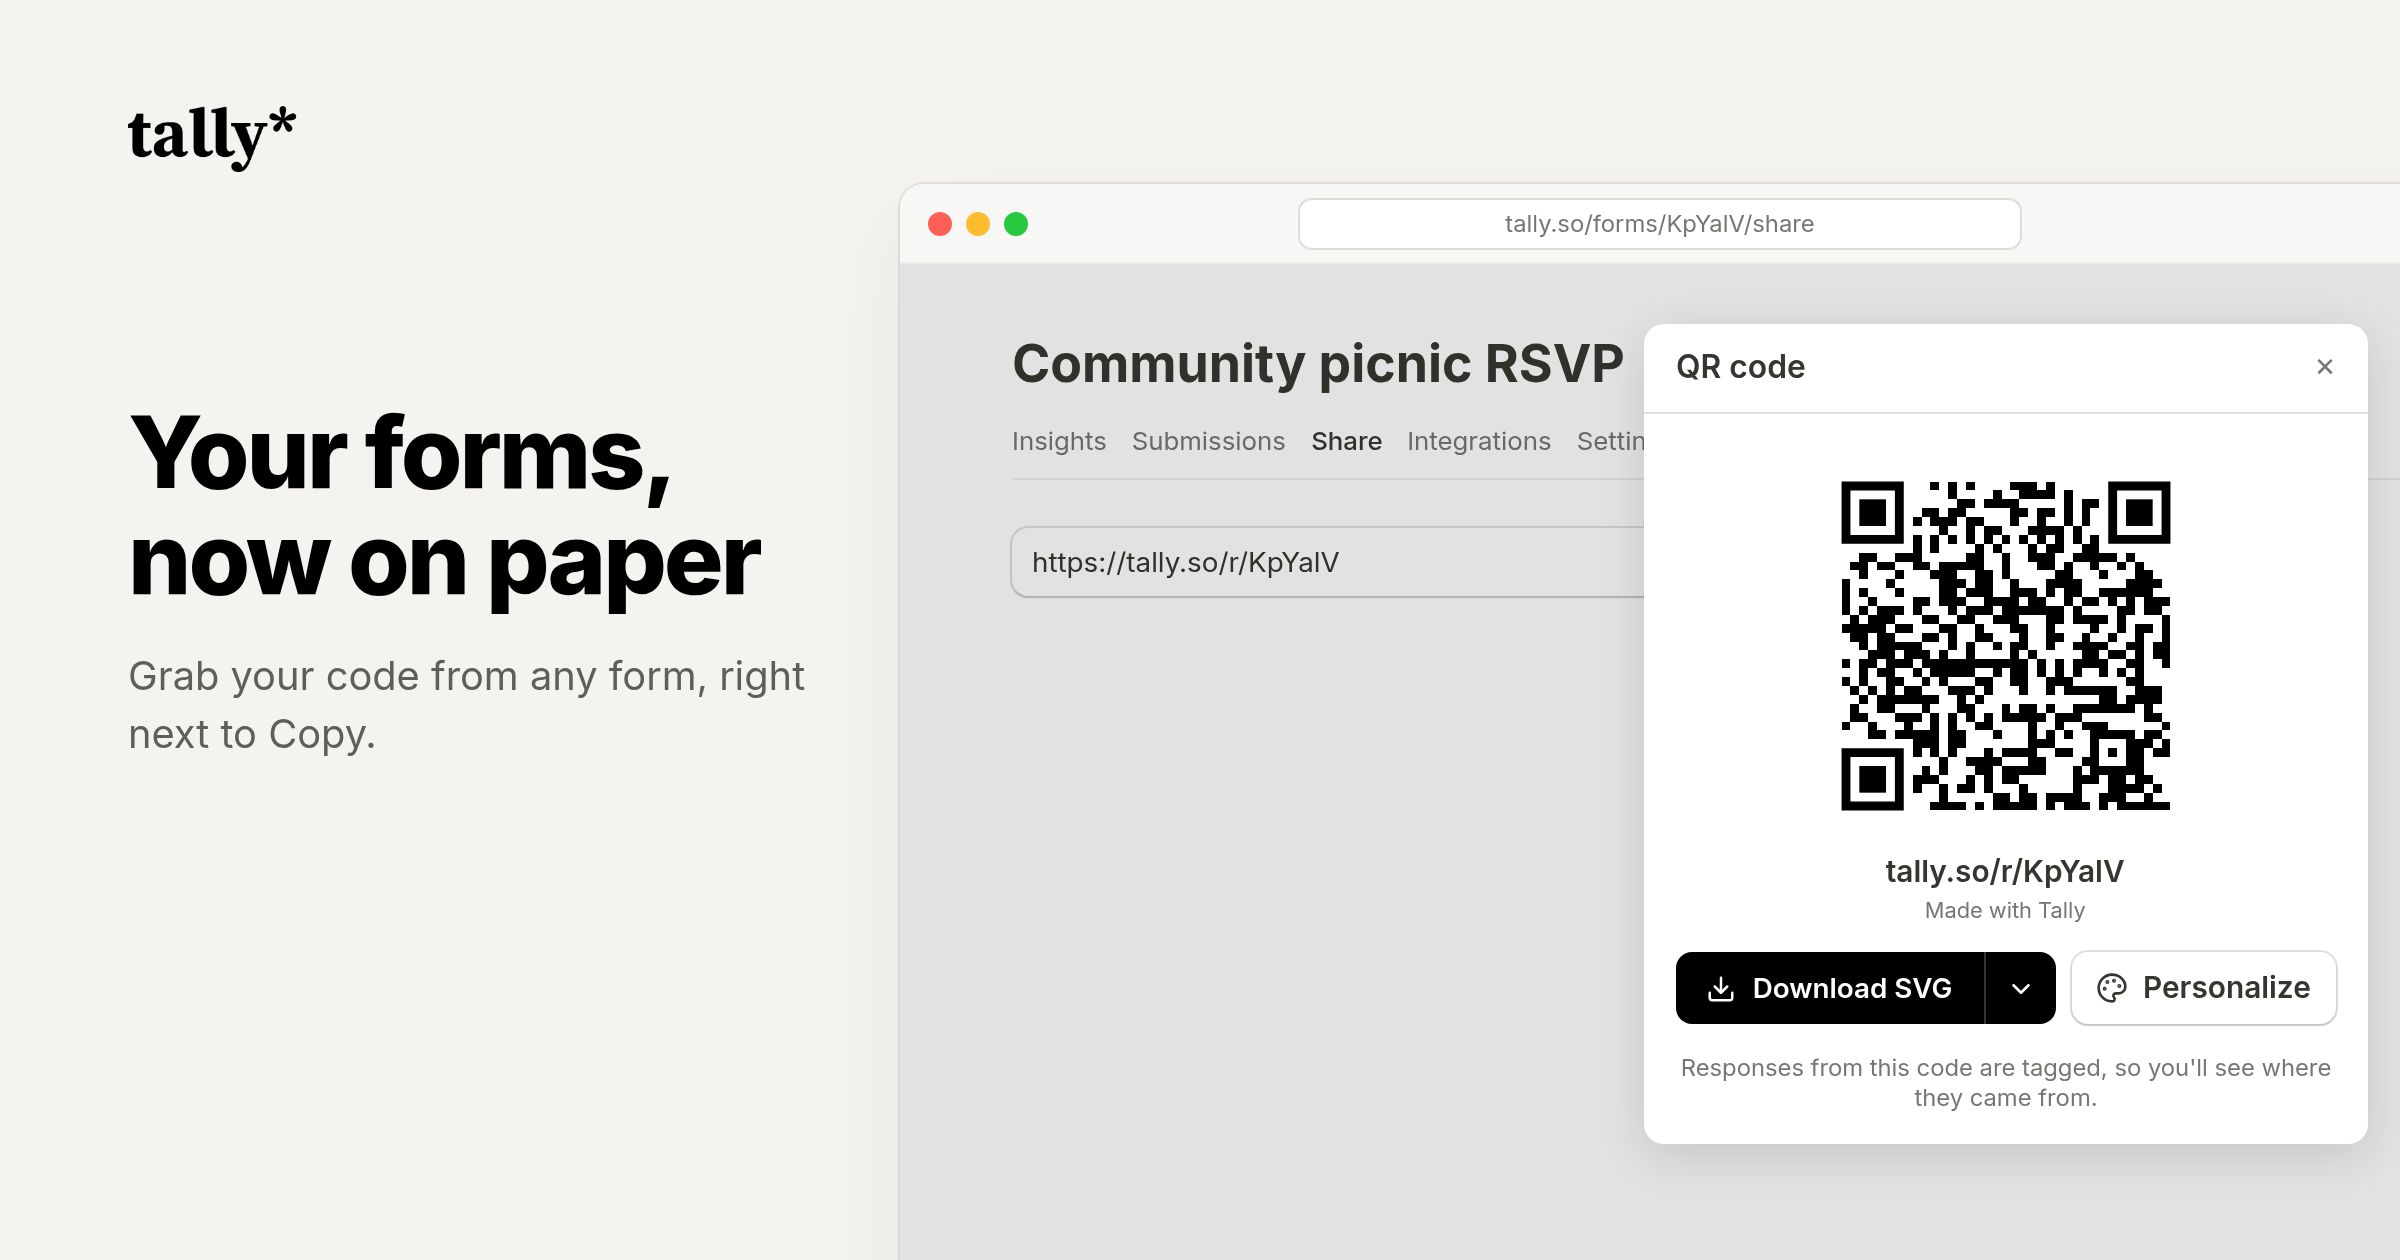
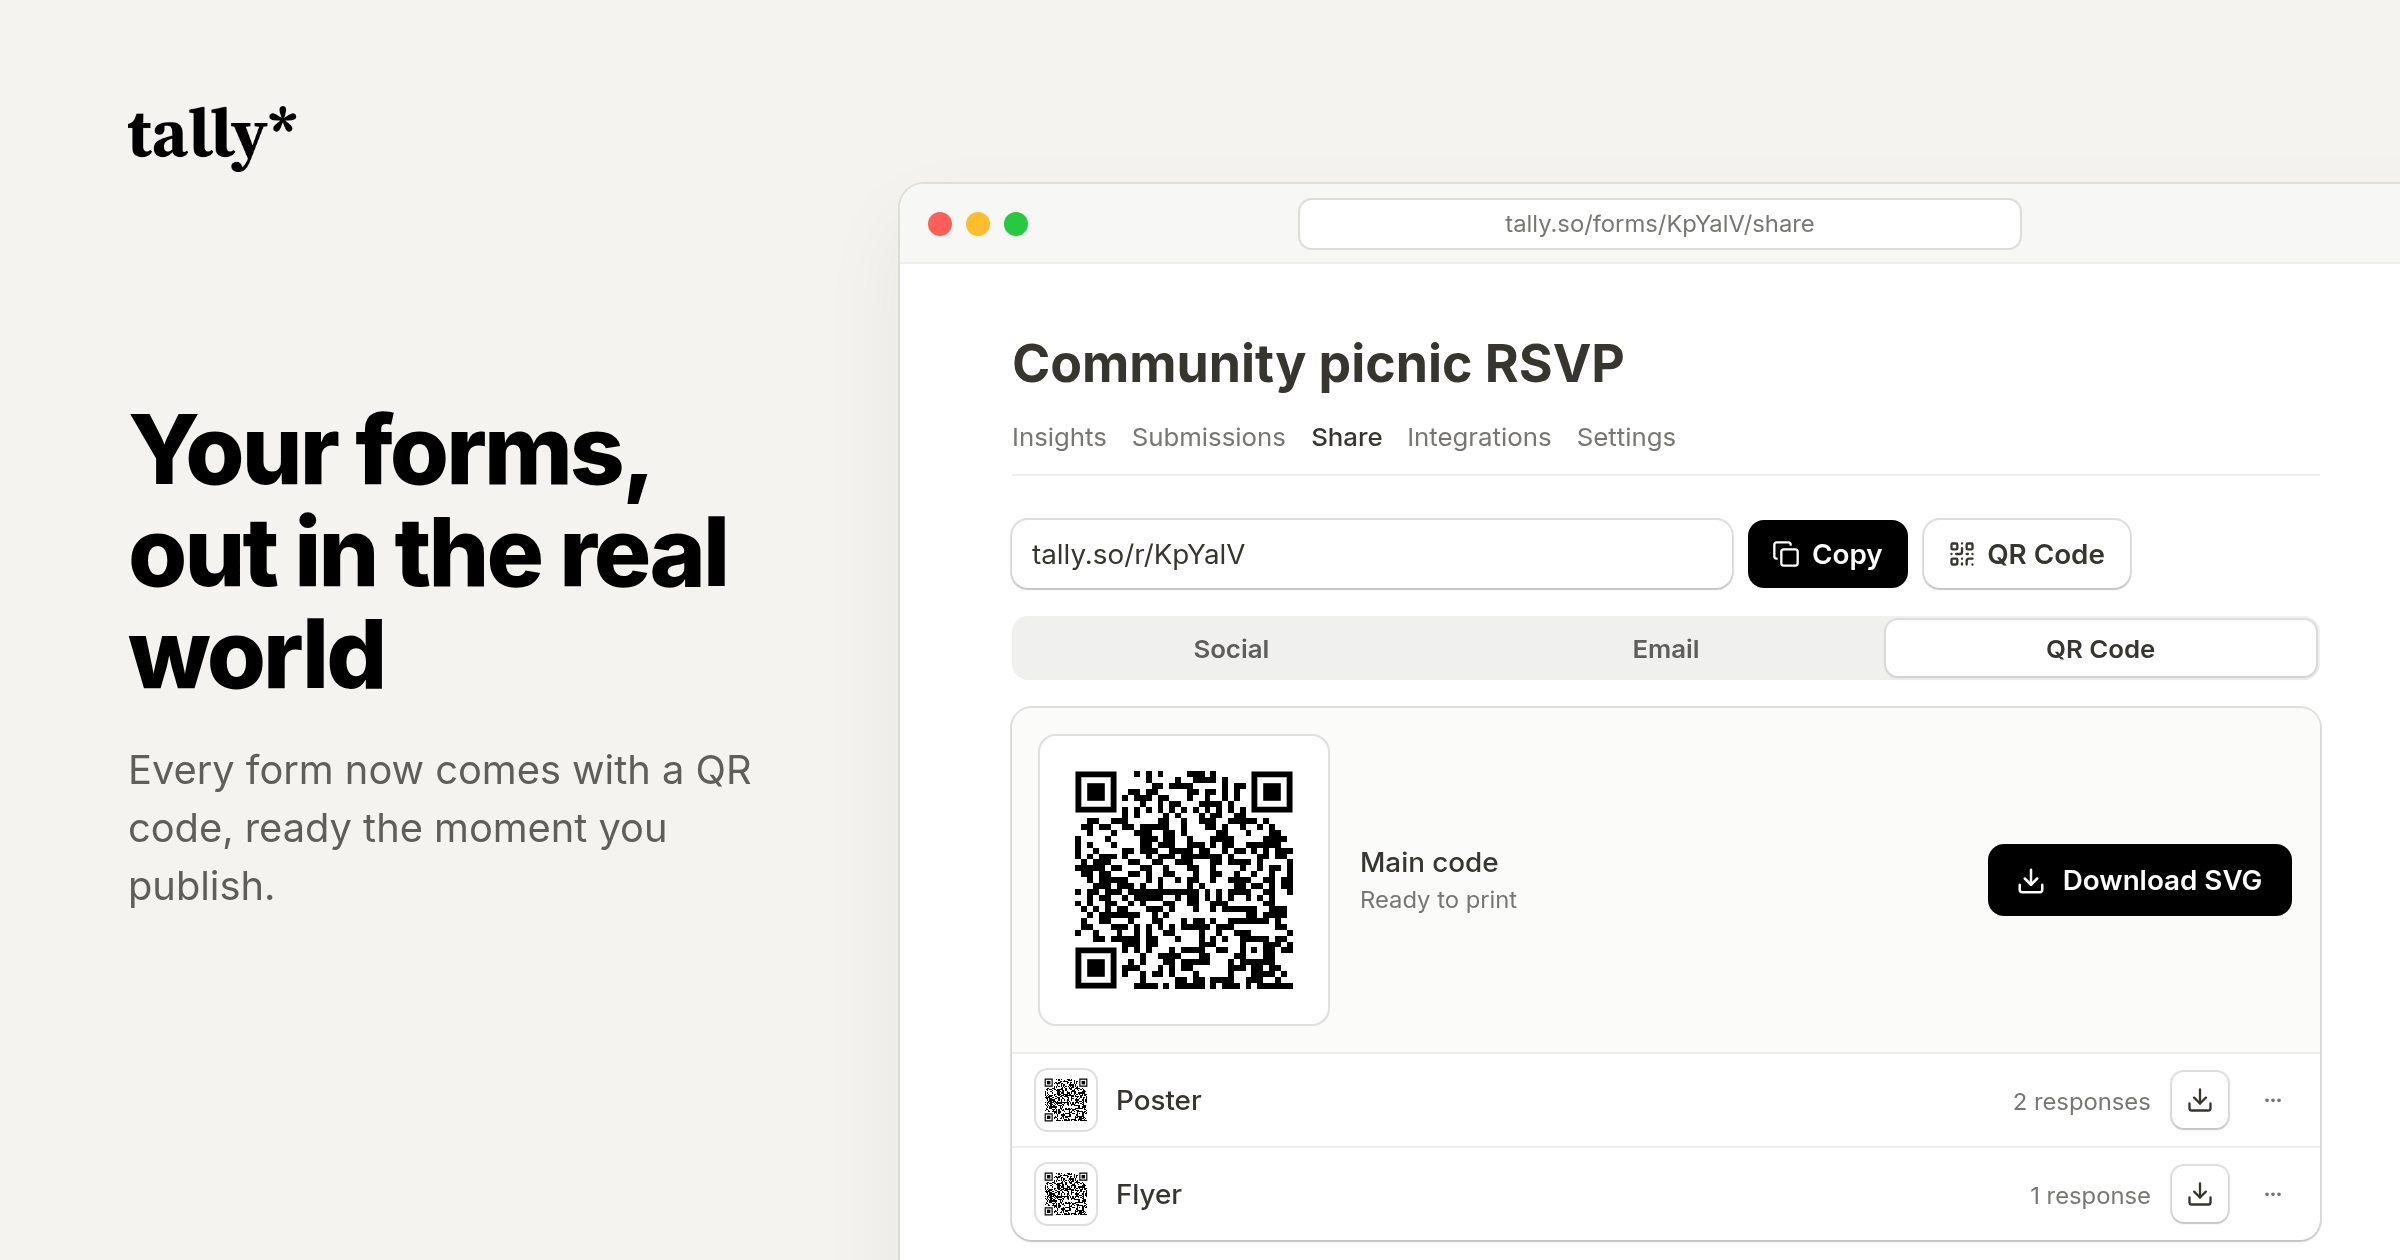
Changelog post: Your forms, out in the real world
- New post title, body and bullets on the visuals page, kept in one object
- Changelog image now shows the Share tab with the QR Code tab open on the main code
- Re-exported the 2400x1260 image used for link previews; og title updated

diff --git a/src/Visuals.tsx b/src/Visuals.tsx
@@ -1,6 +1,6 @@
 import { useRef, useState, type ReactNode } from 'react'
 import { toPng } from 'html-to-image'
-import { Download, ChevronDown, Check, Copy, Palette } from 'lucide-react'
+import { Download, Check, Copy } from 'lucide-react'
 import { CoverArt, PINK, Qr, QrBox, VISUAL_URL, rect, wobble } from './coverArt'
 import { TallyMark } from './chrome'
 import { GuideCard, useGuide } from './guide'
@@ -116,33 +116,52 @@ function Wordmark() {
 }
 
 /** The new QR panel, as it looks in the product. */
-function QrPanelMock({ url }: { url: string }) {
+/** The Share tab with the QR Code tab open on the main code, as in the prototype. */
+function ShareTabMock({ url }: { url: string }) {
+  const Row = ({ name, n }: { name: string; n: string }) => (
+    <div className="sm-row">
+      <span className="sm-thumb"><QrBox size={26} url={url} label="" plain /></span>
+      <span className="sm-name">{name}</span><span className="sm-n">{n}</span>
+      <span className="sm-icon"><Download aria-hidden /></span><span className="sm-more">···</span>
+    </div>
+  )
   return (
-    <div className="pm">
-      <div className="pm-head"><b>QR code</b><span className="pm-x">✕</span></div>
-      <div className="pm-body">
-        <div className="pm-art">
-          <QrBox size={200} url={url} label="QR code" plain />
-          <b>tally.so/r/KpYalV</b>
-          <span>Made with Tally</span>
+    <div className="pg" aria-hidden>
+      <b className="pg-title">Community picnic RSVP</b>
+      <div className="pg-tabs"><span>Insights</span><span>Submissions</span><span className="on">Share</span><span>Integrations</span><span>Settings</span></div>
+      <div className="pg-link">
+        <span className="pg-input">tally.so/r/KpYalV</span>
+        <span className="pg-copy"><Copy aria-hidden />Copy</span>
+        <span className="pg-btn"><QrIcon />QR Code</span>
+      </div>
+      <div className="sm-seg"><span>Social</span><span>Email</span><span className="on">QR Code</span></div>
+      <div className="sm-list">
+        <div className="sm-row is-main">
+          <span className="sm-big"><QrBox size={132} url={url} label="QR code" plain /></span>
+          <span className="sm-main-text"><span className="sm-name">Main code</span><span className="sm-n">Ready to print</span></span>
+          <span className="sm-dl"><Download aria-hidden />Download SVG</span>
         </div>
-        <div className="pm-actions">
-          <div className="mock-split"><span><Download aria-hidden />Download SVG</span><span className="caret"><ChevronDown aria-hidden /></span></div>
-          <div className="pm-btn"><Palette aria-hidden />Personalize</div>
-        </div>
-        <span className="pm-note">Responses from this code are tagged, so you'll see where they came from.</span>
+        <Row name="Poster" n="2 responses" />
+        <Row name="Flyer" n="1 response" />
       </div>
     </div>
   )
 }
+
+const QrIcon = () => (
+  <svg viewBox="0 0 24 24" width="14" height="14" fill="none" stroke="currentColor" strokeWidth="2" strokeLinecap="round" strokeLinejoin="round" aria-hidden>
+    <rect width="5" height="5" x="3" y="3" rx="1" /><rect width="5" height="5" x="16" y="3" rx="1" /><rect width="5" height="5" x="3" y="16" rx="1" />
+    <path d="M21 16h-3a2 2 0 0 0-2 2v3M21 21v.01M12 7v3a2 2 0 0 1-2 2H7M3 12h.01M12 3h.01M12 16v.01M16 12h1M21 12v.01M12 21v-1" />
+  </svg>
+)
 
 function Changelog() {
   return (
     <div className="art changelog">
       <div className="cl-wm"><Wordmark /></div>
       <div className="cl-copy">
-        <h1>Your forms,<br />now on paper</h1>
-        <p>Grab your code from any form, right next to Copy.</p>
+        <h1>Your forms, out in the real world</h1>
+        <p>Every form now comes with a QR code, ready the moment you publish.</p>
       </div>
       <div className="browser">
         <div className="browser-bar">
@@ -150,17 +169,24 @@ function Changelog() {
           <span className="address">tally.so/forms/KpYalV/share</span>
         </div>
         <div className="browser-body">
-          <div className="pg" aria-hidden>
-            <b className="pg-title">Community picnic RSVP</b>
-            <div className="pg-tabs"><span>Insights</span><span>Submissions</span><span className="on">Share</span><span>Integrations</span><span>Settings</span></div>
-            <div className="pg-link"><span className="pg-input">https://tally.so/r/KpYalV</span><span className="pg-copy"><Copy aria-hidden />Copy</span><span className="pg-qr" /></div>
-          </div>
-          <div className="mock-dim" aria-hidden />
-          <QrPanelMock url={VISUAL_URL('qr-changelog')} />
+          <ShareTabMock url={VISUAL_URL('qr-changelog')} />
         </div>
       </div>
     </div>
   )
+}
+
+/** The changelog post, in one place. */
+const POST = {
+  title: 'Your forms, out in the real world',
+  body: 'Some forms work best in person: on a poster, a flyer, a menu, a slide or a name badge. Every form now comes with a QR code, ready the moment you publish. Open Share and hit QR Code.',
+  bullets: [
+    ['Ready to print.', 'Download SVG, PDF or a high-res PNG. SVG and PDF stay sharp at any size, from a sticker to a banner.'],
+    ['One code per place.', 'Using your form in more than one place? Add a code for each one, for free, and Insights shows which one brings in responses.'],
+    ['Make it yours (Pro).', 'Add your brand color and logo.'],
+    ['On your phone?', 'Save your code to your photos or share it straight away.'],
+  ] as [string, string][],
+  end: 'Happy sharing!',
 }
 
 /* ---------- Poster: A-size portrait, 800x1131 exported at 2x ---------- */
@@ -250,7 +276,7 @@ function ChangelogGif() {
         <a className="btn btn-black" href={GIF} download="tally-qr-changelog-2400x1600.gif"><Download aria-hidden />Download GIF</a>
       </div>
       <div className="v-frame" style={{ aspectRatio: '3 / 2' }}>
-        <img src={GIF} alt="Opening the QR code from the Share tab and downloading it as SVG" style={{ width: '100%', height: '100%', display: 'block' }} />
+        <img src={GIF} alt="On the Share tab, QR Code opens the main code, then it downloads as SVG" style={{ width: '100%', height: '100%', display: 'block' }} />
       </div>
       <div className="v-caption small"><p>For the changelog entry, next to the image above. Social posts and link previews keep using the static image.</p></div>
     </section>
@@ -281,16 +307,10 @@ export default function Visuals() {
       </header>
       <Exportable title="Changelog image" name="tally-qr-changelog"
         caption={<>
-          <p><b>Your forms, now on paper</b></p>
-          <p>Some forms belong offline: on a poster, a flyer, a menu or a name badge. Grab your code from any form, right next to Copy on the Share tab.</p>
-          <ul>
-            <li><b>Ready to print.</b> Download it as SVG, PDF or high-res PNG. It stays sharp from sticker size to A0.</li>
-            <li><b>Make it yours.</b> Codes start in classic black. Add your brand color and logo.</li>
-            <li><b>One code per place.</b> Make one for the poster, the flyer and the slides, and download each when you need it.</li>
-            <li><b>Know what worked.</b> Every code is tagged, so each one gets its own row in Insights.</li>
-            <li><b>On your phone?</b> Save the code to your photos or share it straight from the share sheet.</li>
-          </ul>
-          <p>Open any form, go to Share, and hit QR Code. Happy printing!</p>
+          <p><b>{POST.title}</b></p>
+          <p>{POST.body}</p>
+          <ul>{POST.bullets.map(([lead, rest]) => <li key={lead}><b>{lead}</b> {rest}</li>)}</ul>
+          <p>{POST.end}</p>
         </>}>
         <Changelog />
       </Exportable>

diff --git a/src/visuals.css b/src/visuals.css
@@ -26,7 +26,7 @@ body { background: #fafafa; }
 .wordmark { display: block; height: 34px; width: auto; }
 .cl-wm { position: absolute; left: 64px; top: 52px; }
 .cl-copy { position: absolute; left: 64px; top: 200px; width: 340px; }
-.cl-copy h1 { font-size: 50px; line-height: 1.06; font-weight: 800; letter-spacing: -0.03em; margin: 0 0 18px; color: #000; }
+.cl-copy h1 { font-size: 48px; line-height: 1.06; font-weight: 800; letter-spacing: -0.03em; margin: 0 0 18px; color: #000; }
 .cl-copy p { font-size: 20px; line-height: 1.45; color: #5f5e5a; margin: 0; }
 .browser { position: absolute; left: 450px; top: 92px; width: 820px; height: 600px; border-radius: 12px; background: #fff; box-shadow: rgba(0,0,0,.06) 0 18px 44px, rgba(61,59,53,.10) 0 0 0 1px; overflow: hidden; display: flex; flex-direction: column; }
 .browser-bar { height: 40px; display: flex; align-items: center; gap: 16px; padding: 0 14px; background: #f7f7f5; border-bottom: 1px solid #ededec; flex: none; }
@@ -42,19 +42,6 @@ body { background: #fafafa; }
 .pg-copy { height: 34px; padding: 0 12px; border-radius: 8px; background: #000; color: #fff; font-weight: 600; font-size: 14px; display: inline-flex; align-items: center; gap: 6px; }
 .pg-copy svg { width: 14px; height: 14px; }
 .pg-qr { width: 34px; height: 34px; border-radius: 8px; box-shadow: rgba(0,0,0,.12) 0 1px 1px, #dfdfdf 0 0 0 1px; }
-.mock-dim { position: absolute; inset: 0; background: rgba(15,15,15,.12); }
-.pm { position: absolute; left: 372px; top: 30px; width: 362px; background: #fff; border-radius: 10px; box-shadow: rgba(0,0,0,.12) 0 6px 24px; }
-.pm-head { display: flex; justify-content: space-between; align-items: center; padding: 12px 16px; border-bottom: 1px solid #dfdfdf; }
-.pm-head b { font-size: 16px; font-weight: 600; } .pm-x { color: #777672; font-size: 13px; }
-.pm-body { padding: 16px; display: flex; flex-direction: column; gap: 14px; }
-.pm-art { position: relative; display: flex; flex-direction: column; align-items: center; gap: 2px; }
-.pm-art b { font-size: 15px; font-weight: 600; margin-top: 2px; color: #37352f; } .pm-art span { font-size: 11px; color: #777672; }
-.pm-actions { display: flex; gap: 8px; }
-.pm-actions .mock-split { flex: 1; font-size: 14px; }
-.pm-actions .mock-split svg { width: 15px; height: 15px; }
-.pm-btn { height: 36px; padding: 0 12px; border-radius: 8px; box-shadow: rgba(0,0,0,.12) 0 1px 1px, #dfdfdf 0 0 0 1px; display: inline-flex; align-items: center; gap: 8px; font-weight: 600; font-size: 15px; color: #37352f; }
-.pm-btn svg { width: 16px; height: 16px; }
-.pm-note { font-size: 12px; color: #777672; text-align: center; }
 
 /* Poster */
 .poster { background: #fff; }
@@ -87,3 +74,25 @@ body { background: #fafafa; }
 /* Cover */
 .cover-art { background: #F7F7F6; }
 .cover-art svg { display: block; }
+
+/* Share tab mock in the changelog image */
+.pg-btn { height: 34px; padding: 0 12px; border-radius: 8px; box-shadow: rgba(0,0,0,.12) 0 1px 1px, #dfdfdf 0 0 0 1px; display: inline-flex; align-items: center; gap: 6px; font-weight: 600; font-size: 14px; color: #37352f; }
+.sm-seg { display: flex; gap: 2px; padding: 2px; border-radius: 8px; background: #f0f0ef; font-size: 13px; font-weight: 600; color: #5f5e5a; }
+.sm-seg span { flex: 1; height: 28px; display: flex; align-items: center; justify-content: center; border-radius: 6px; }
+.sm-seg .on { background: #fff; color: #37352f; box-shadow: rgba(0,0,0,.08) 0 1px 2px, #dfdfdf 0 0 0 1px; }
+.sm-list { border-radius: 10px; box-shadow: rgba(0,0,0,.12) 0 1px 1px, #dfdfdf 0 0 0 1px; overflow: hidden; }
+.sm-row { display: flex; align-items: center; gap: 10px; padding: 8px 12px; font-size: 14px; color: #37352f; border-top: 1px solid #ededec; }
+.sm-row:first-child { border-top: 0; }
+.sm-row.is-main { padding: 14px 14px; gap: 16px; background: #fbfbfa; }
+.sm-thumb { width: 30px; height: 30px; border-radius: 6px; box-shadow: #dfdfdf 0 0 0 1px; display: flex; align-items: center; justify-content: center; background: #fff; }
+.sm-big { padding: 6px; border-radius: 8px; background: #fff; box-shadow: #dfdfdf 0 0 0 1px; display: flex; }
+.sm-main-text { flex: 1; display: flex; flex-direction: column; gap: 2px; }
+.sm-name { font-weight: 500; }
+.sm-row:not(.is-main) .sm-name { flex: 1; }
+.sm-n { font-size: 12px; color: #777672; }
+.sm-icon { width: 28px; height: 28px; border-radius: 6px; box-shadow: rgba(0,0,0,.12) 0 1px 1px, #dfdfdf 0 0 0 1px; display: flex; align-items: center; justify-content: center; }
+.sm-icon svg { width: 14px; height: 14px; }
+.sm-more { width: 24px; text-align: center; color: #777672; letter-spacing: -1px; }
+.sm-dl { height: 36px; padding: 0 14px; border-radius: 8px; background: #000; color: #fff; display: inline-flex; align-items: center; gap: 8px; font-weight: 600; font-size: 14px; }
+.sm-dl svg { width: 15px; height: 15px; }
+.changelog .pg { right: 110px; gap: 14px; }

diff --git a/visuals/index.html b/visuals/index.html
@@ -5,7 +5,7 @@
     <link rel="icon" type="image/svg+xml" href="../favicon.svg" />
     <meta name="viewport" content="width=device-width, initial-scale=1" />
     <title>QR code announcement visuals · Tally prototype</title>
-    <meta property="og:title" content="Your forms, now on paper" />
+    <meta property="og:title" content="Your forms, out in the real world" />
     <meta property="og:image" content="https://paulinetahon.github.io/Tally/tally-qr-changelog-2400x1260.png" />
     <meta property="og:image:width" content="2400" />
     <meta property="og:image:height" content="1260" />
